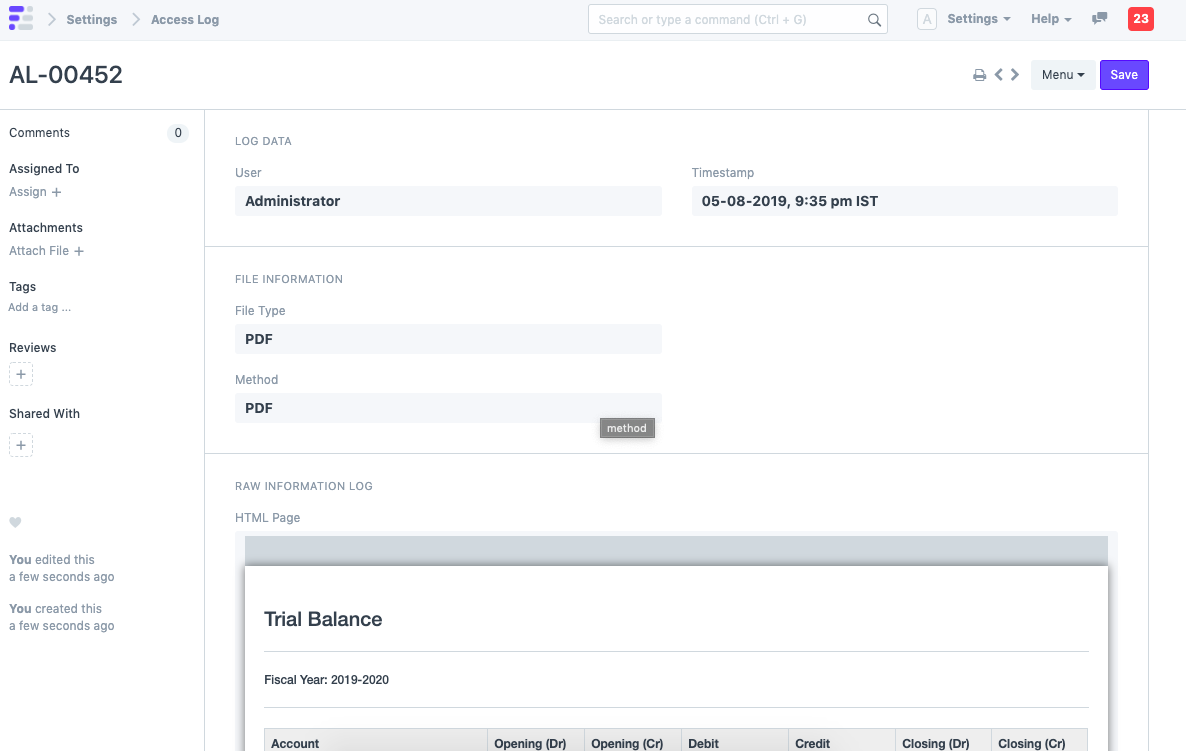
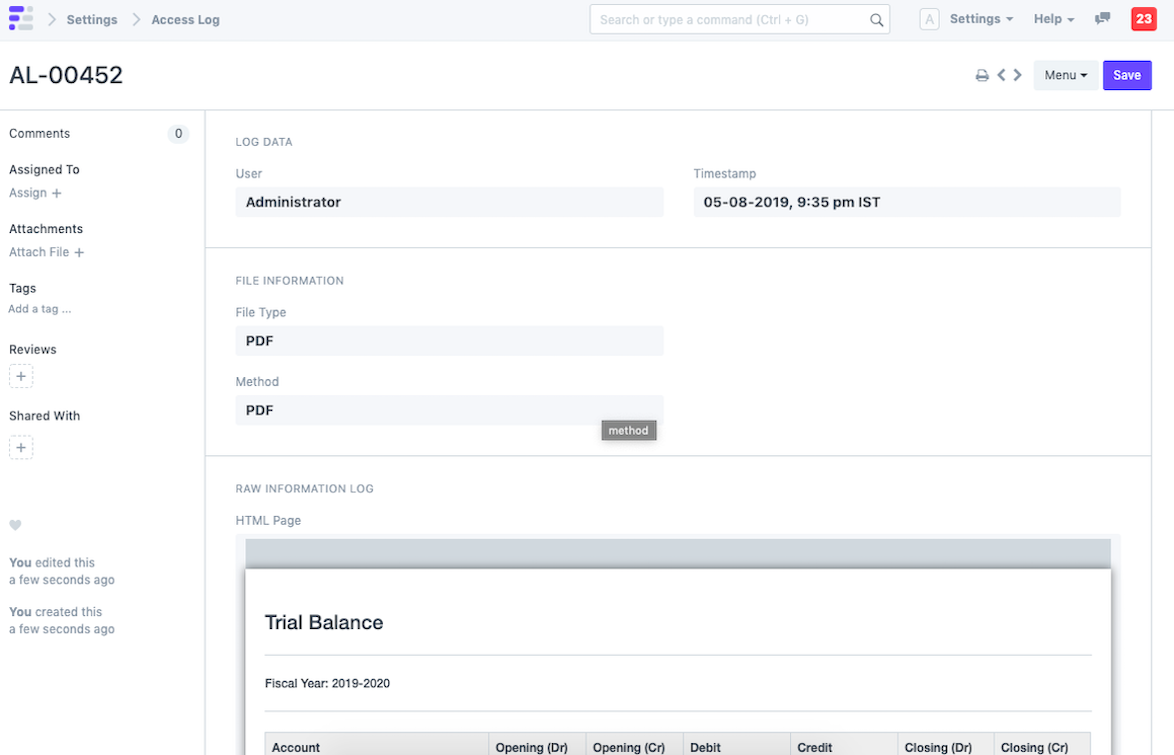
docs: added description, cropped image

diff --git a/erpnext_com/www/docs/user/manual/en/using-erpnext/access-log.md b/erpnext_com/www/docs/user/manual/en/using-erpnext/access-log.md
@@ -14,6 +14,8 @@ metatags:
 
 **Access Log is a security feature that logs all data exports by all users in the system.**
 
+It is a tool for [System Managers](/docs/user/manual/en/setting-up/users-and-permissions/role-and-role-profile) to track which files were accesed or exported by users on the system. This is useful for tracking company sensitive information like transactions or financials.
+
 Access logs are created in the following events:
 
  - Printing of all Forms and Reports
